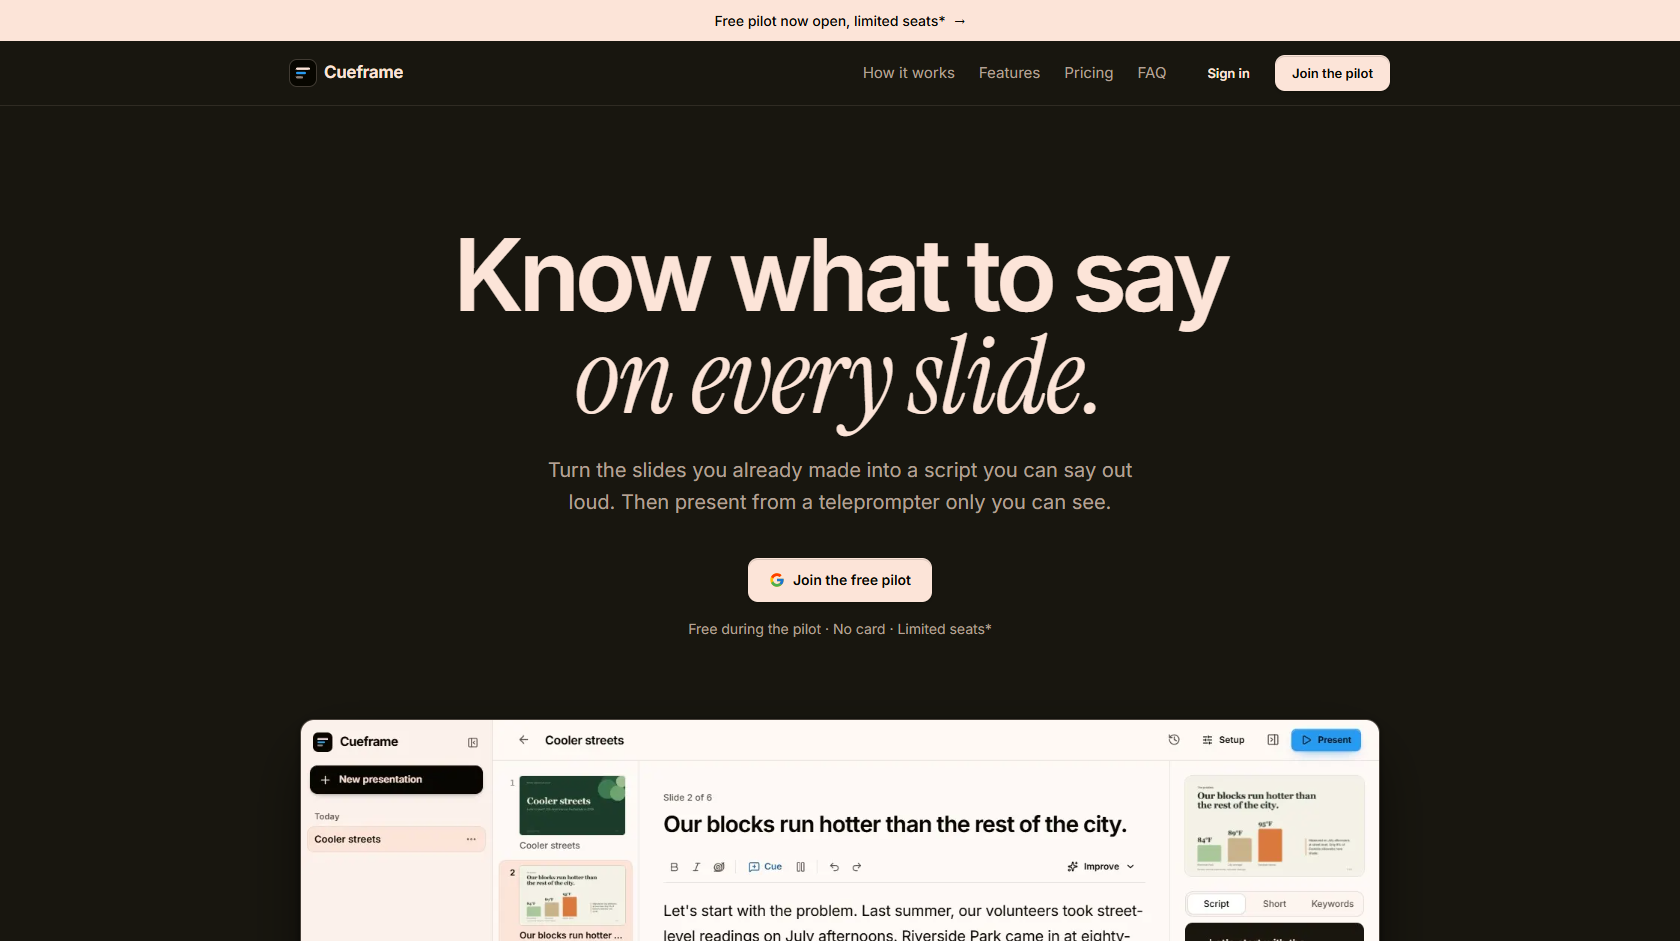
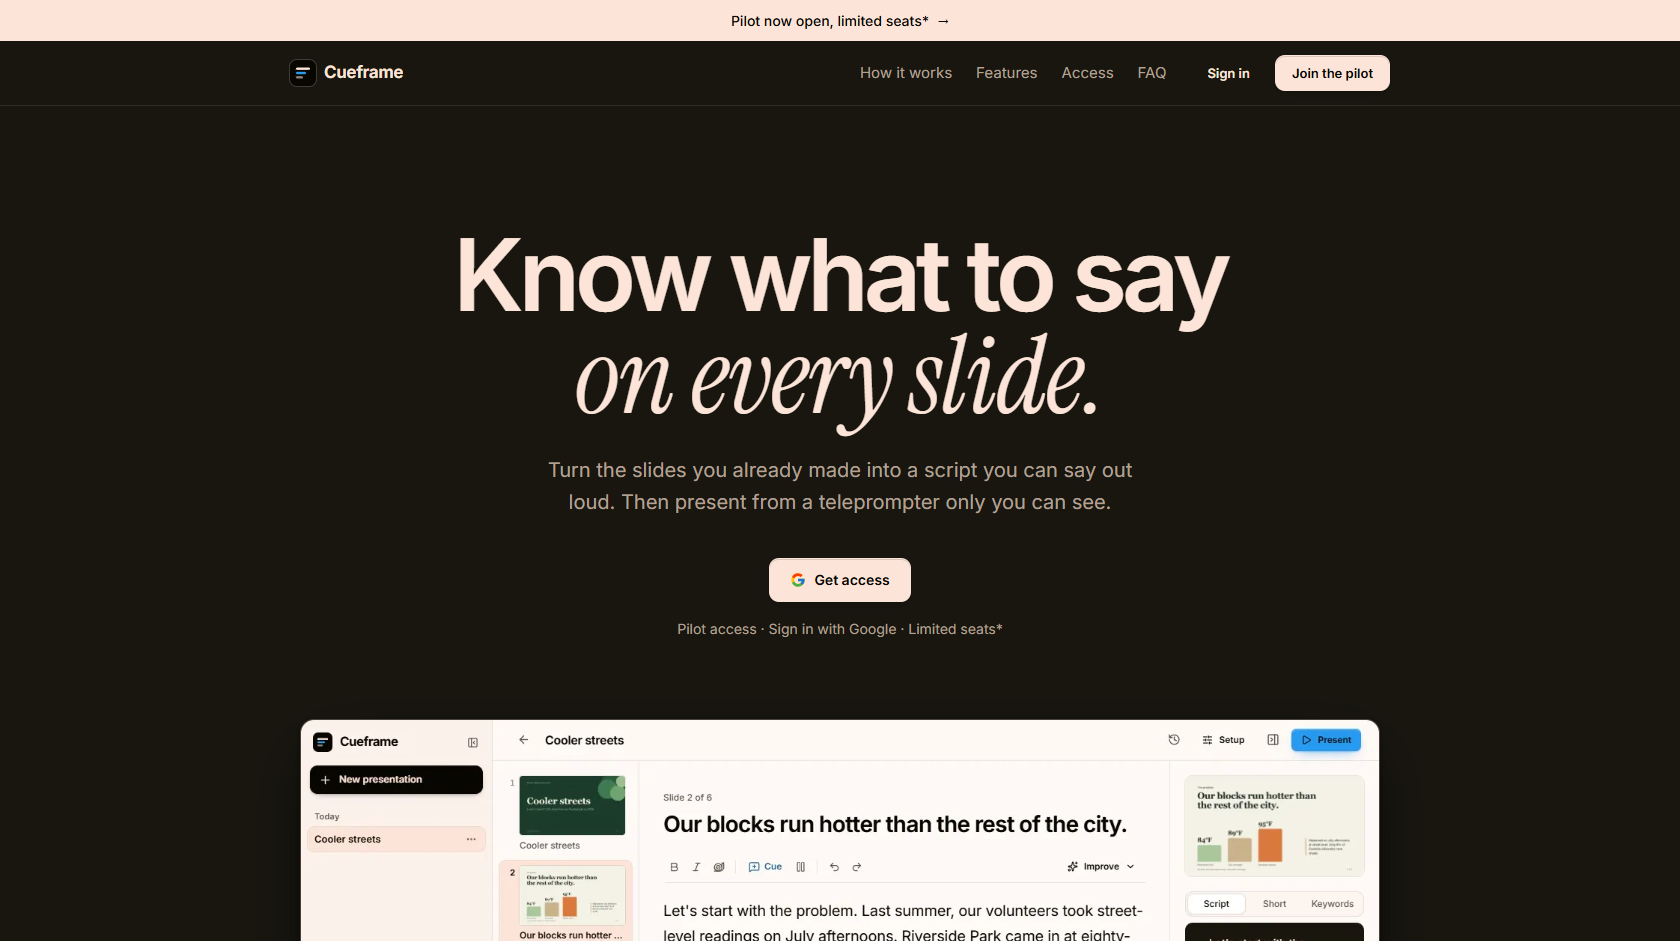
Replace landing pricing with pilot access
Cueframe isn't sold, so the site no longer shows a price, a $0 plan, or
'free / no card' wording. The pricing section becomes 'Pilot access' with
the same limits, the nav link reads Access, and the CTA reads Get access.
The social preview image is regenerated from the updated page.

Changed region(s): [[0.4024, 0.5855, 0.5881, 0.678], [0.4952, 0.0616, 0.681, 0.0925], [0.4333, 0.0, 0.5571, 0.0308]]

diff --git a/app/styles/marketing.css b/app/styles/marketing.css
@@ -158,7 +158,7 @@ html:has(.mk), html:has(.mk) body { background: color-mix(in srgb, var(--pitch) 
 .tile__list { display: grid; margin-top: auto; }
 .tile__list li { display: flex; gap: var(--s-3); padding-block: var(--s-4); border-top: 1px solid var(--line); line-height: 1.5; }
 .tile__list li:last-child { padding-bottom: 0; }
-.tile__list svg, .plan__list svg { flex: none; width: 18px; height: 18px; margin-top: 2px; }
+.tile__list svg, .access-card__list svg { flex: none; width: 18px; height: 18px; margin-top: 2px; }
 @container (max-width: 900px) { .tile, .tile--wide { grid-column: 1 / -1; } }
 
 /* The live teleprompter: the script drifts up past the reading line; read lines dim above it. */
@@ -204,21 +204,19 @@ html:has(.mk), html:has(.mk) body { background: color-mix(in srgb, var(--pitch) 
   .compare td.compare__us::before { color: color-mix(in srgb, var(--powder) 72%, var(--pitch)); }
 }
 
-/* ── Pricing ───────────────────────────────────────────────────────────── */
+/* ── Access ────────────────────────────────────────────────────────────── */
 
-.pricing { display: grid; grid-template-columns: minmax(0, 5fr) minmax(0, 6fr); gap: var(--s-8) clamp(32px, 5cqi, 72px); align-items: start; }
-.plan { display: grid; gap: var(--s-6); padding: clamp(24px, 3cqi, 36px); border: 1px solid var(--line-strong); border-radius: var(--r-lg); background: var(--surface); box-shadow: var(--shadow-2); }
-.plan__head { display: flex; flex-wrap: wrap; align-items: center; justify-content: space-between; gap: var(--s-3); }
-.plan h3 { font-family: var(--font-serif), Georgia, serif; font-size: 36px; font-weight: 400; letter-spacing: -0.01em; line-height: 1; }
-.plan__tag { padding: var(--s-1) var(--s-2); border: 1px solid var(--line-strong); border-radius: var(--r-xs); font-size: var(--t-sm); font-weight: 600; }
-.plan__price { display: flex; flex-wrap: wrap; align-items: baseline; gap: var(--s-3); color: var(--text-2); }
-.plan__price span { font-size: 64px; font-weight: 600; letter-spacing: -0.05em; line-height: 1; color: var(--text); }
-.plan__list { display: grid; gap: var(--s-3); }
-.plan__list li { display: flex; gap: var(--s-3); line-height: 1.5; }
-.plan__limits { display: grid; gap: var(--s-1); padding-top: var(--s-4); border-top: 1px solid var(--line); color: var(--text-2); }
-.plan .landing-cta, .plan .landing-cta .btn { justify-items: stretch; width: 100%; }
-.plan__terms { font-size: var(--t-sm); line-height: 1.6; color: var(--text-2); }
-@container (max-width: 860px) { .pricing { grid-template-columns: minmax(0, 1fr); } }
+.access { display: grid; grid-template-columns: minmax(0, 5fr) minmax(0, 6fr); gap: var(--s-8) clamp(32px, 5cqi, 72px); align-items: start; }
+.access-card { display: grid; gap: var(--s-6); padding: clamp(24px, 3cqi, 36px); border: 1px solid var(--line-strong); border-radius: var(--r-lg); background: var(--surface); box-shadow: var(--shadow-2); }
+.access-card__head { display: flex; flex-wrap: wrap; align-items: center; justify-content: space-between; gap: var(--s-3); }
+.access-card h3 { font-family: var(--font-serif), Georgia, serif; font-size: 36px; font-weight: 400; letter-spacing: -0.01em; line-height: 1; }
+.access-card__tag { padding: var(--s-1) var(--s-2); border: 1px solid var(--line-strong); border-radius: var(--r-xs); font-size: var(--t-sm); font-weight: 600; }
+.access-card__list { display: grid; gap: var(--s-3); }
+.access-card__list li { display: flex; gap: var(--s-3); line-height: 1.5; }
+.access-card__limits { display: grid; gap: var(--s-1); padding-top: var(--s-4); border-top: 1px solid var(--line); color: var(--text-2); }
+.access-card .landing-cta, .access-card .landing-cta .btn { justify-items: stretch; width: 100%; }
+.access-card__terms { font-size: var(--t-sm); line-height: 1.6; color: var(--text-2); }
+@container (max-width: 860px) { .access { grid-template-columns: minmax(0, 1fr); } }
 
 /* ── Questions ─────────────────────────────────────────────────────────── */
 
@@ -267,7 +265,7 @@ html:has(.mk), html:has(.mk) body { background: color-mix(in srgb, var(--pitch) 
   .hero__works { animation-delay: 440ms; }
 
   @supports (animation-timeline: view()) {
-    .band__head, .closing__inner, .problems li, .steps li, .tile, .plan, .mini-faq, .faq__list, .compare, .stage-pair {
+    .band__head, .closing__inner, .problems li, .steps li, .tile, .access-card, .mini-faq, .faq__list, .compare, .stage-pair {
       animation: mk-rise linear backwards;
       animation-timing-function: var(--ease-out);
       animation-timeline: view();

diff --git a/app/(marketing)/page.tsx b/app/(marketing)/page.tsx
@@ -12,7 +12,7 @@ import { Prompter } from "../components/landing/Prompter";
 
 export const metadata: Metadata = {
   title: { absolute: "Cueframe · Know what to say on every slide" },
-  description: "Turn the slides you already made into a script you can say out loud, then present from a teleprompter only you can see. Free during the pilot.",
+  description: "Turn the slides you already made into a script you can say out loud, then present from a teleprompter only you can see. Now open to a small pilot group.",
 };
 
 const PROBLEMS = [
@@ -59,8 +59,8 @@ const INCLUDED = [
   "Export as Markdown or plain text",
 ];
 
-const PRICING_FAQ = [
-  { q: "Is it really free?", a: "Yes. There's nothing to pay during the pilot, and no card to enter." },
+const ACCESS_FAQ = [
+  { q: "How do I get access?", a: "Sign in with Google. While there are seats left, your account is created and you go straight to your workspace." },
   { q: "What are the limits?", a: `Up to ${PILOT.dailyScripts} scripts per account per day, and ${PILOT.accounts} accounts in the pilot. Daily limits reset at midnight UTC.` },
   { q: "What if the pilot is full?", a: "Sign-in says so, and no new accounts are created. If you already have an account, you can always sign in." },
   { q: "What happens when it ends?", a: "Export any script as Markdown or plain text at any time, so your work isn't locked in." },
@@ -78,11 +78,11 @@ const FAQ = [
 const FAQ_SCHEMA = JSON.stringify({
   "@context": "https://schema.org",
   "@type": "FAQPage",
-  mainEntity: [...PRICING_FAQ, ...FAQ].map((item) => ({ "@type": "Question", name: item.q, acceptedAnswer: { "@type": "Answer", text: item.a } })),
+  mainEntity: [...ACCESS_FAQ, ...FAQ].map((item) => ({ "@type": "Question", name: item.q, acceptedAnswer: { "@type": "Answer", text: item.a } })),
 }).replace(/</g, "\\u003c");
 
 function Reassurance() {
-  return <p className="reassure">Free during the pilot <span aria-hidden="true">·</span> No card <span aria-hidden="true">·</span> Limited seats*</p>;
+  return <p className="reassure">Pilot access <span aria-hidden="true">·</span> Sign in with Google <span aria-hidden="true">·</span> Limited seats*</p>;
 }
 
 function Mark({ cell }: { cell: Cell }) {
@@ -262,30 +262,29 @@ export default function LandingPage() {
         </div>
       </section>
 
-      <section id="pricing" className="band tone-powder" aria-labelledby="pricing-title">
+      <section id="access" className="band tone-powder" aria-labelledby="access-title">
         <div className="mk-wrap">
           <header className="band__head">
-            <h2 id="pricing-title">Free while the pilot runs.</h2>
+            <h2 id="access-title">Open to a small pilot group.</h2>
           </header>
-          <div className="pricing">
-            <article className="plan" aria-labelledby="plan-title">
-              <div className="plan__head">
-                <h3 id="plan-title">Pilot</h3>
-                <span className="plan__tag">Limited seats*</span>
+          <div className="access">
+            <article className="access-card" aria-labelledby="access-card-title">
+              <div className="access-card__head">
+                <h3 id="access-card-title">Pilot access</h3>
+                <span className="access-card__tag">Limited seats*</span>
               </div>
-              <p className="plan__price"><span>$0</span> for a limited time</p>
-              <ul className="plan__list">
+              <ul className="access-card__list">
                 {INCLUDED.map((item) => <li key={item}><Check aria-hidden="true" />{item}</li>)}
               </ul>
-              <ul className="plan__limits">
+              <ul className="access-card__limits">
                 <li>Up to {PILOT.dailyScripts} scripts per day*</li>
                 <li>{PILOT.accounts} accounts in the pilot*</li>
               </ul>
               <LandingCta />
-              <p className="plan__terms">*{PILOT_TERMS}</p>
+              <p className="access-card__terms">*{PILOT_TERMS}</p>
             </article>
             <div className="mini-faq">
-              {PRICING_FAQ.map((item) => (
+              {ACCESS_FAQ.map((item) => (
                 <details key={item.q}>
                   <summary>{item.q}</summary>
                   <p>{item.a}</p>

diff --git a/tests/e2e/landing.spec.ts b/tests/e2e/landing.spec.ts
@@ -21,14 +21,13 @@ test("the landing page explains the product and leads into the workspace", async
   await expect(page.getByRole("heading", { name: "Import your slides" })).toBeVisible();
 });
 
-test("the pilot offer states its limits beside the price", async ({ page }) => {
+test("pilot access states its limits", async ({ page }) => {
   await page.goto("/");
-  await page.getByRole("banner").getByRole("link", { name: "Pricing" }).click();
-  const plan = page.getByRole("article", { name: "Pilot" });
-  await expect(plan).toBeInViewport();
-  await expect(plan.getByText("$0", { exact: true })).toBeVisible();
-  await expect(plan.getByText(`Up to ${PILOT.dailyScripts} scripts per day*`)).toBeVisible();
-  await expect(plan.getByText(`*${PILOT_TERMS}`)).toBeVisible();
+  await page.getByRole("banner").getByRole("link", { name: "Access" }).click();
+  const access = page.getByRole("article", { name: "Pilot access" });
+  await expect(access).toBeInViewport();
+  await expect(access.getByText(`Up to ${PILOT.dailyScripts} scripts per day*`)).toBeVisible();
+  await expect(access.getByText(`*${PILOT_TERMS}`)).toBeVisible();
 
   await page.getByText("What are the limits?").click();
   await expect(page.getByText(`Up to ${PILOT.dailyScripts} scripts per account per day, and ${PILOT.accounts} accounts in the pilot.`)).toBeVisible();

diff --git a/app/(marketing)/layout.tsx b/app/(marketing)/layout.tsx
@@ -15,8 +15,8 @@ export default function MarketingLayout({ children }: { children: React.ReactNod
       <div className={`mk ${serif.variable}`}>
         <a className="skip-link" href="#main">Skip to content</a>
         <p className="pilot-bar">
-          <Link href="/#pricing">
-            Free pilot now open, limited seats<span aria-hidden="true">*</span>
+          <Link href="/#access">
+            Pilot now open, limited seats<span aria-hidden="true">*</span>
             <span className="pilot-bar__go" aria-hidden="true">→</span>
           </Link>
         </p>
@@ -29,7 +29,7 @@ export default function MarketingLayout({ children }: { children: React.ReactNod
             <nav className="site-nav__links" aria-label="Page sections">
               <Link href="/#how">How it works</Link>
               <Link href="/#features">Features</Link>
-              <Link href="/#pricing">Pricing</Link>
+              <Link href="/#access">Access</Link>
               <Link href="/#faq">FAQ</Link>
             </nav>
             <div className="site-nav__actions">

diff --git a/app/components/landing/LandingCta.tsx b/app/components/landing/LandingCta.tsx
@@ -55,7 +55,7 @@ export function LandingCta({ place = "main" }: { place?: Place }) {
   return (
     <div className="landing-cta">
       <Button variant="primary" size="lg" loading={pending} onClick={start} icon={<GoogleMark />}>
-        Join the free pilot
+        Get access
       </Button>
       {error && <p className="landing-cta__error" role="alert">{error}</p>}
     </div>
